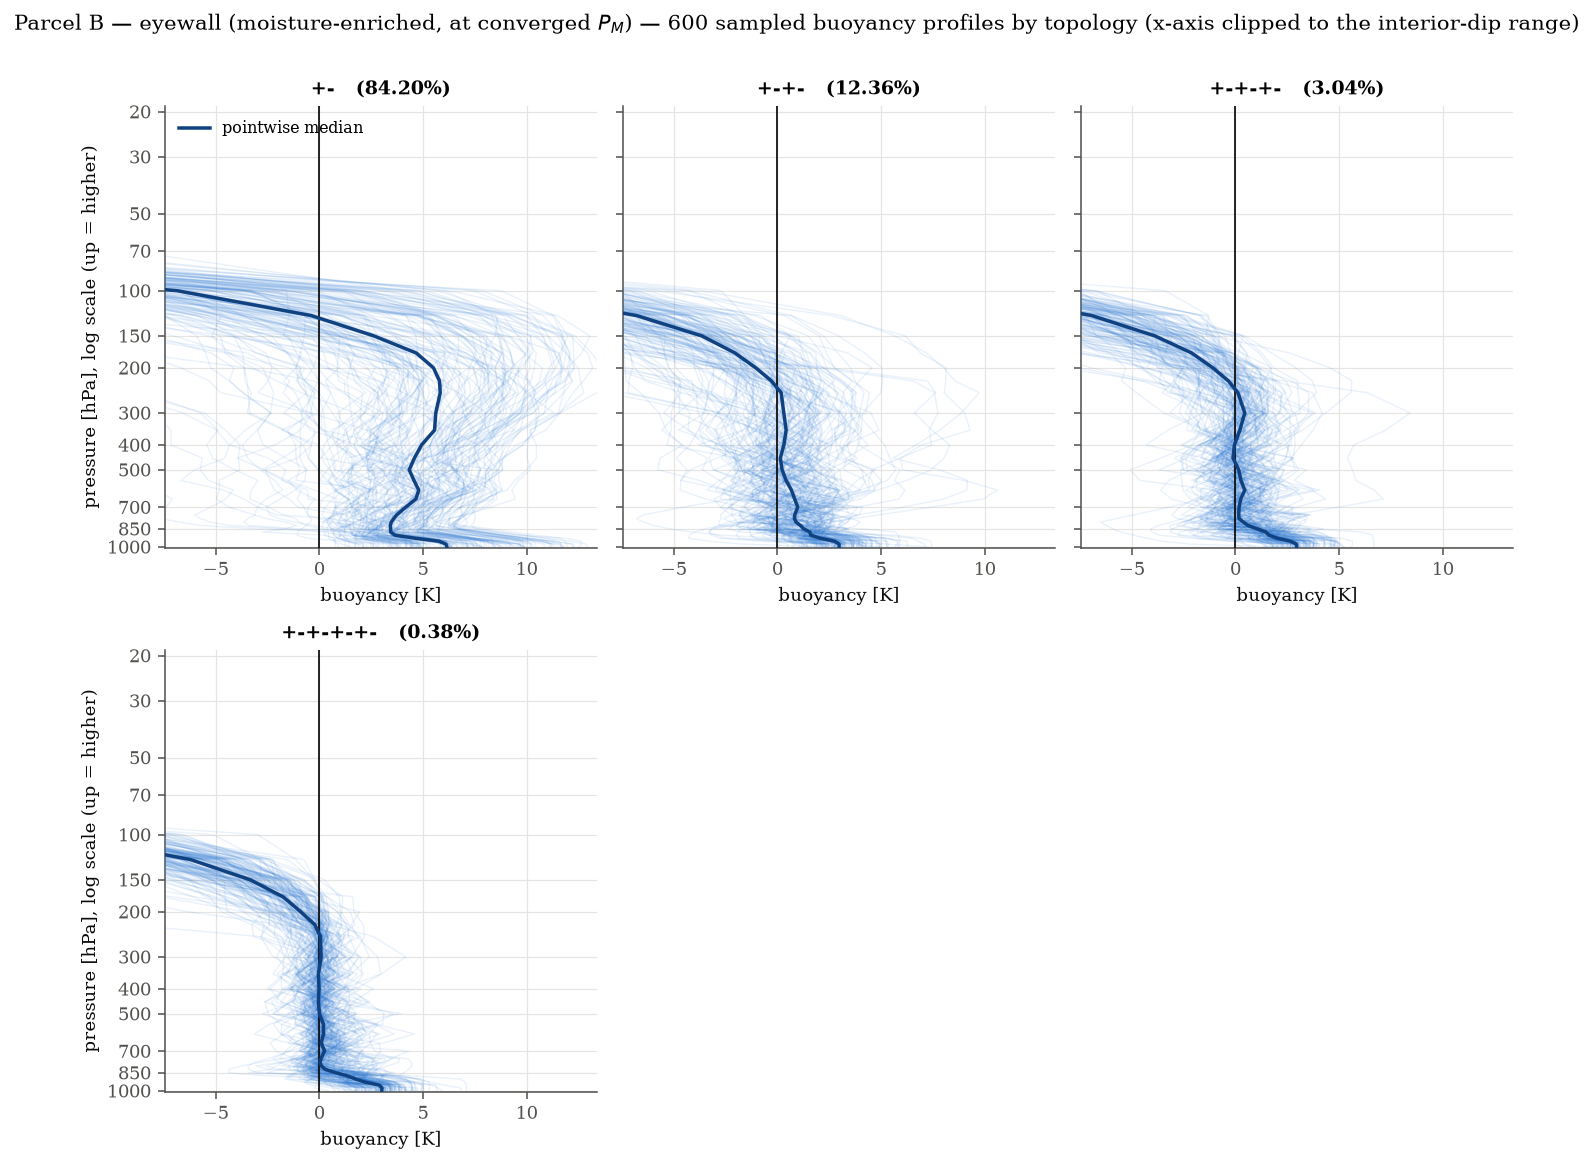
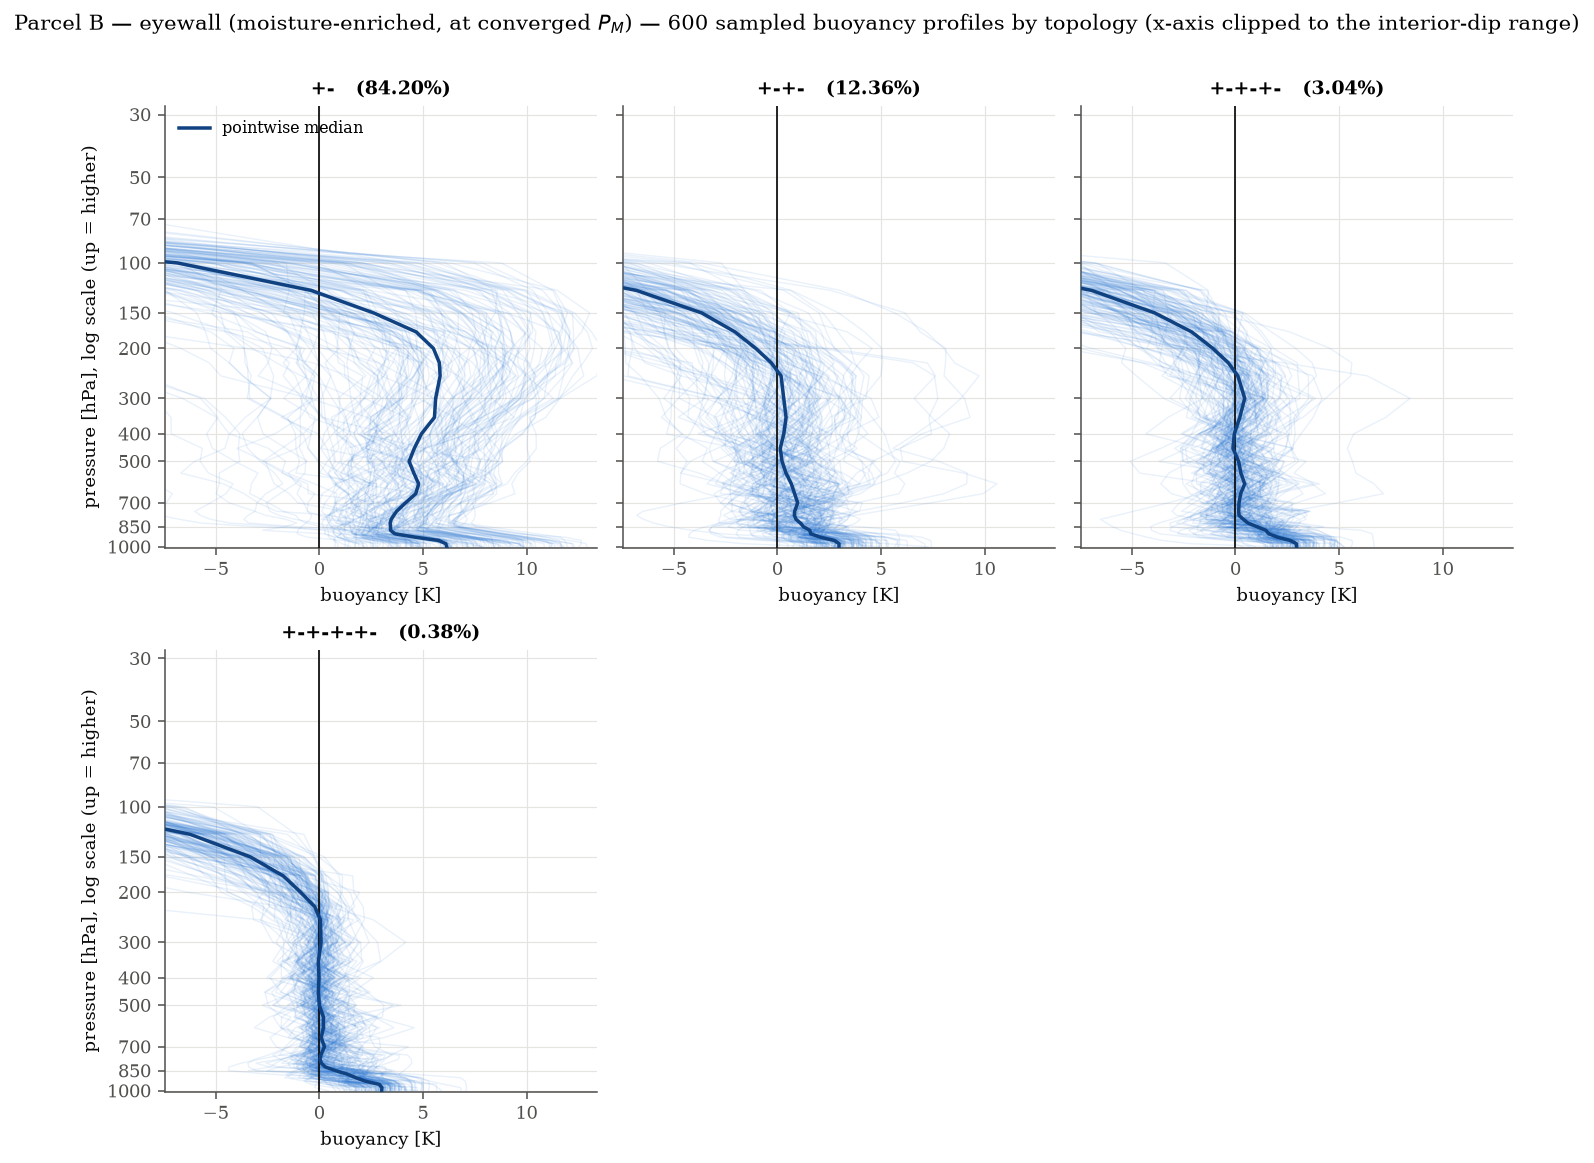
Ceiling to 30 hPa (minimal, zero-fail); refine conditions and readout
The highest buoyancy crossing anywhere in the sample is 47.6 hPa, so
retaining levels down to 30 hPa (ptop=20) observes every crossing with
zero clipping and, unlike the 20 hPa ceiling, zero entropy-solver
failures. Conditions are now top!=max and reach!=max (>1 J/kg) as
primaries, keeping clamp-flip, |dVMAX|>1 m/s, and legacy-non-convergent
as the mechanistically distinct cases; the first-crossing convention is
dropped from the display (materially wrong too often to be
interesting). Readout gives pos and SST their own cells with
figure-space-padded coordinates so the layout no longer thrashes with
coordinate width.

Generated-with: Claude Fable 5

Changed region(s): [[0.0615, 0.1857, 0.5841, 0.4643], [0.0615, 0.681, 0.3689, 0.9286], [0.6763, 0.2167, 0.8607, 0.4643]]

diff --git a/era5_analysis/sounding_scope_template.html b/era5_analysis/sounding_scope_template.html
@@ -151,9 +151,10 @@ footer b{color:var(--ink)}
   (±15 days) or an hour-of-day window (±3 h UTC), the track a single year; each marginal keeps showing the
   density under the <i>other</i> filters, with its own selection dashed.
   Click the × chips or press Escape to clear. The condition chips restrict
-  everything to profiles where the LNB conventions disagree: T/M/F/R lanes on
+  everything to profiles where the LNB conventions disagree: T/M/R lanes on
   the scope mark each convention's LNB (T = legacy topmost, M = max-work,
-  F = first crossing, R = lifted-ballistic); CAPE and potential intensity per
+  R = lifted-ballistic; the first-crossing convention is omitted — it is
+  materially wrong too often to be interesting); CAPE and potential intensity per
   convention appear in the readout (PI computed at tcpyPI's own ptop = 50).
   The eight real columns where the legacy convention fails to converge are
   included — select "legacy non-convergent" to see them.
@@ -171,9 +172,11 @@ const state = {parcel:"B", cls:-1, speed:5, playing:true, cur:-1, trail:[], puls
   selHour:null,  // {h} with +/- HOUR_W hours (circular)
   selYear:null}; // {y}
 const RAD_KM = 1500, DOY_W = 15, HOUR_W = 3;
-state.cond = 0;   // 0 all | 1 clamp-flip | 2 |dE|>10 | 3 |dVMAX|>1 | 4 legacy IFL=2
-const CONDS = [["all profiles",0], ["E_top=0 < E_max",1], ["|E_top\u2212E_max| > 10 J/kg",2],
-               ["|\u0394VMAX| > 1 m/s",3], ["legacy non-convergent",4]];
+state.cond = 0;
+// 0 all | 1 top!=max | 2 reach!=max | 3 clamp-flip | 4 |dVMAX|>1 | 5 legacy IFL=2
+const CONDS = [["all profiles",0], ["top \u2260 max",1], ["reach \u2260 max",2],
+               ["clamp flip (E_top=0<E_max)",3], ["|\u0394VMAX| > 1 m/s",4],
+               ["legacy non-convergent",5]];
 const CONVC = {top:"--c5", max:"--c1", first:"--c2", reach:"--c4"};  // red aqua yellow violet
 
 const reduced = matchMedia("(prefers-reduced-motion: reduce)").matches;
@@ -205,17 +208,20 @@ function hourIn(h){
 function yearIn(y){ return !state.selYear || y === state.selYear.y; }
 function condPassMap(i){
   if (state.cond === 0) return true;
-  if (state.cond === 3) return DATA.map.gpi[i] === 2;
-  if (state.cond === 4) return DATA.map.gpi[i] === 1;
+  if (state.cond === 4) return DATA.map.gpi[i] === 2;
+  if (state.cond === 5) return DATA.map.gpi[i] === 1;
   const g = DATA.map["g"+state.parcel][i];
-  return state.cond === 1 ? (g & 1) !== 0 : (g & 2) !== 0;
+  if (state.cond === 1) return (g & 2) !== 0;   // |top-max| > 1 J/kg
+  if (state.cond === 2) return (g & 4) !== 0;   // |reach-max| > 1 J/kg
+  return (g & 1) !== 0;                          // clamp flip
 }
 function condPassPlayer(i){
   if (state.cond === 0) return true;
   const P = DATA.player, s = state.parcel;
-  if (state.cond === 1) return P["Etop"+s][i] === 0 && P["Emax"+s][i] > 0;
-  if (state.cond === 2) return Math.abs(P["Etop"+s][i] - P["Emax"+s][i]) > 10;
-  if (state.cond === 3) return P.Vtop[i] >= 0 && P.Vmax[i] >= 0 &&
+  if (state.cond === 1) return Math.abs(P["Etop"+s][i] - P["Emax"+s][i]) > 1;
+  if (state.cond === 2) return Math.abs(P["Ereach"+s][i] - P["Emax"+s][i]) > 1;
+  if (state.cond === 3) return P["Etop"+s][i] === 0 && P["Emax"+s][i] > 0;
+  if (state.cond === 4) return P.Vtop[i] >= 0 && P.Vmax[i] >= 0 &&
                                Math.abs(P.Vtop[i] - P.Vmax[i]) > 1;
   return P.legfail[i] === 1;
 }
@@ -252,7 +258,7 @@ function ctx2(id){
   const cv = document.getElementById(id);
   return [cv, cv.getContext("2d")];
 }
-const yLnTop = Math.log(19), yLnBot = Math.log(1010);
+const yLnTop = Math.log(28), yLnBot = Math.log(1010);
 function yOf(p, h, pad){ return pad + (Math.log(p)-yLnTop)/(yLnBot-yLnTop)*(h-2*pad); }
 
 // ---------- scope ----------
@@ -266,7 +272,7 @@ function drawScope(){
   const Y = p => padT + (Math.log(p)-yLnTop)/(yLnBot-yLnTop)*(H-padT-padB);
   g.font = "22px ui-monospace, Menlo, monospace";
   g.strokeStyle = cvar("--grid"); g.fillStyle = cvar("--ink2"); g.lineWidth = 1.6;
-  for (const p of [1000,850,700,500,400,300,200,150,100,70,50,30,20]){
+  for (const p of [1000,850,700,500,400,300,200,150,100,70,50,30]){
     const y = Y(p);
     g.beginPath(); g.moveTo(padL,y); g.lineTo(W-padR,y); g.stroke();
     g.textAlign="right"; g.textBaseline="middle"; g.fillText(String(p), padL-10, y);
@@ -303,13 +309,13 @@ function drawScope(){
   // LNB gutter: one lane per convention; a dot at each convention's LNB
   if (state.cur>=0){
     const s = state.parcel, i = state.cur, Pl = DATA.player;
-    const lanes = [["T","Ltop"], ["M","Lmax"], ["F","Lfirst"], ["R","Lreach"]];
-    const gx0 = W - padR + 18, lane = 26;
+    const lanes = [["T","Ltop"], ["M","Lmax"], ["R","Lreach"]];
+    const gx0 = W - padR + 24, lane = 34;
     g.font = "20px ui-monospace, Menlo, monospace"; g.textAlign = "center";
     lanes.forEach(([lab, key], k)=>{
       const x = gx0 + k*lane;
       const col = cvar(CONVC[key.slice(1).replace("L","")] || "--ink2");
-      g.fillStyle = cvar(CONVC[["top","max","first","reach"][k]]);
+      g.fillStyle = cvar(CONVC[["top","max","reach"][k]]);
       g.textBaseline = "bottom";
       g.fillText(lab, x, padT - 8);
       g.strokeStyle = cvar("--grid"); g.lineWidth = 1.2;
@@ -525,8 +531,9 @@ function drawYears(now){
 }
 
 // ---------- readout ----------
-function fmtLat(v){ return Math.abs(v).toFixed(1)+"°"+(v>=0?"N":"S"); }
-function fmtLon(v){ return Math.abs(v).toFixed(1)+"°"+(v>=0?"E":"W"); }
+const FSP = "\u2007";  // figure space: digit-wide, keeps the layout stable
+function fmtLat(v){ return Math.abs(v).toFixed(1).padStart(4,FSP)+"°"+(v>=0?"N":"S"); }
+function fmtLon(v){ return Math.abs(v).toFixed(1).padStart(5,FSP)+"°"+(v>=0?"E":"W"); }
 function updateReadout(){
   const el = document.getElementById("readout");
   if (state.cur<0){ el.innerHTML=""; return; }
@@ -534,7 +541,7 @@ function updateReadout(){
   const dt = new Date(Date.UTC(P.year[i],0,1) + (P.doy[i]-1)*864e5)
       .toISOString().slice(0,10);
   const et=P["Etop"+s][i], em=P["Emax"+s][i];
-  const ef=P["Efirst"+s][i], er=P["Ereach"+s][i];
+  const er=P["Ereach"+s][i];
   const flip = em>0 && et===0;
   const hh = String(P.hour[i]).padStart(2,"0");
   const L = k => { const v=P[k+s][i]; return v>0 ? v.toFixed(0) : "–"; };
@@ -543,12 +550,12 @@ function updateReadout(){
   const cc = k => cvar(CONVC[k]);
   el.innerHTML =
     `<div><span class="k">date</span><span>${dt} ${hh}Z</span></div>`+
-    `<div><span class="k">pos · SST</span><span>${fmtLat(P.lat[i])} ${fmtLon(P.lon[i])} · ${P.sst[i].toFixed(1)}°C</span></div>`+
+    `<div><span class="k">pos</span><span>${fmtLat(P.lat[i])} ${fmtLon(P.lon[i])}</span></div>`+
+    `<div><span class="k">SST</span><span>${P.sst[i].toFixed(1)} °C</span></div>`+
     `<div><span class="k">topology</span><span>${P["topo"+s][i] || "–"}</span></div>`+
     `<div><span class="k">VMAX top/max</span><span class="${dpi>1?'flip':''}">${vt<0?(P.legfail[i]? "IFL=2 ⚠":"–"):vt.toFixed(1)} / ${vm<0?"–":vm.toFixed(1)} m/s</span></div>`+
     `<div><span class="k" style="color:${cc('top')}">T top</span><span class="${flip?'flip':''}">${et} J/kg @ ${L("Ltop")} hPa${flip?' ⚠':''}</span></div>`+
     `<div><span class="k" style="color:${cc('max')}">M max</span><span>${em} J/kg @ ${L("Lmax")} hPa</span></div>`+
-    `<div><span class="k" style="color:${cc('first')}">F first</span><span>${ef} J/kg @ ${L("Lfirst")} hPa</span></div>`+
     `<div><span class="k" style="color:${cc('reach')}">R reach</span><span>${er} J/kg @ ${L("Lreach")} hPa</span></div>`;
 }
 

diff --git a/era5_analysis/prep_artifact_data.py b/era5_analysis/prep_artifact_data.py
@@ -153,7 +153,8 @@ mappts = {
 }
 for pname in "ABC":
     mappts[f"c{pname}"] = [int(cls(pname, i)) for i in msel]
-    # disagreement bitmask: 1 = E_top clamped to 0 while E_max>0; 2 = |dE|>10
+    # disagreement bitmask: 1 = clamp-flip (E_top=0 while E_max>0);
+    # 2 = |E_top-E_max| > 1 J/kg; 4 = |E_reach-E_max| > 1 J/kg
     o = z[pname]
     m = popmask[pname]
     g = []
@@ -162,8 +163,10 @@ for pname in "ABC":
         if m[i]:
             if o[i, 2] == 0.0 and o[i, 3] > 0.0:
                 v |= 1
-            if abs(o[i, 2] - o[i, 3]) > 10.0:
+            if abs(o[i, 2] - o[i, 3]) > 1.0:
                 v |= 2
+            if abs(o[i, 5] - o[i, 3]) > 1.0:
+                v |= 4
         g.append(v)
     mappts[f"g{pname}"] = g
 dv = np.abs(PI["VMAX"][msel, 0] - PI["VMAX"][msel, 1])

diff --git a/era5_analysis/scan_final.py b/era5_analysis/scan_final.py
@@ -30,9 +30,11 @@ from numba import njit, prange
 from tcpyPI import constants, utilities
 from tcpyPI.pi import solve_temperature_from_entropy
 
-PTOP = 10.0  # retain levels with P > 10 hPa -> top 20 hPa; highest observed
-# buoyancy crossing in the 569k-column sample is 49.6 hPa (saturated core
-# parcel), so the retained top sits a 2.5x pressure buffer below it
+PTOP = 20.0  # retain levels with P > 20 hPa -> top 30 hPa: the minimal
+# ceiling observing every buoyancy crossing in the 569k-column sample (highest:
+# 47.6 hPa, saturated core parcel, interpolated between the 50 and 30 hPa
+# nodes). At this ceiling zero profiles clip and zero entropy solves fail (the
+# 30-20 hPa layer caused 21 failures when retained).
 RD = constants.RD
 EPS = constants.EPS
 CKCD = 0.9

diff --git a/era5_analysis/plot_curves.py b/era5_analysis/plot_curves.py
@@ -30,7 +30,7 @@ plt.rcParams.update({
 
 z = np.load(f"{SCRATCH}/topology_curves.npz")
 P = z["P"]
-YT = [1000, 850, 700, 500, 400, 300, 200, 150, 100, 70, 50, 30, 20]
+YT = [1000, 850, 700, 500, 400, 300, 200, 150, 100, 70, 50, 30]
 
 groups = {}
 for k in z.files:
@@ -73,7 +73,7 @@ for pname, items in groups.items():
                 label="pointwise median")
         ax.axvline(0, color=INK, lw=0.9, zorder=4)
         ax.set_yscale("log")
-        ax.set_ylim(1010, 19)
+        ax.set_ylim(1010, 28)
         ax.set_yticks(YT)
         ax.set_yticklabels([str(t) for t in YT])
         ax.minorticks_off()

diff --git a/era5_analysis/README.md b/era5_analysis/README.md
@@ -68,11 +68,11 @@ and `pi_conv.py` cross-checks).
   ~20x more often than legacy. Where PI matters (SST >= 26), top vs max
   agree to p99 = 0.53 m/s.
 - Column ceiling: the topology chain (`scan_final.py` onward) retains
-  levels down to 20 hPa (ptop=10), a 2.5x pressure buffer below the highest
-  buoyancy crossing observed anywhere in the sample (49.6 hPa, saturated
-  core parcel; parcel B max 66.8, parcel A max 87.5). With that ceiling no
-  parcel is clipped (zero `+`-ending topologies); 21 of 569,478 parcel-A
-  columns fail the entropy solve in the 30-20 hPa range and are flagged.
+  levels down to 30 hPa (ptop=20) -- the minimal ceiling observing every
+  buoyancy crossing in the sample. Highest crossing: 47.6 hPa (saturated
+  core parcel, interpolated between the 50 and 30 hPa nodes; parcel B max
+  65.0, parcel A max 87.5). At this ceiling zero profiles clip AND zero
+  entropy solves fail (retaining the 30-20 hPa layer caused 21 failures).
   tcpyPI's own ptop=50 convention (used by the pi()/CAPE scans above)
   truncates at 70 hPa and clips 1.24% of TC-relevant core parcels, whose
   true crossings sit at median 68.6 hPa. The solver's `ENEW > P-1` guard
